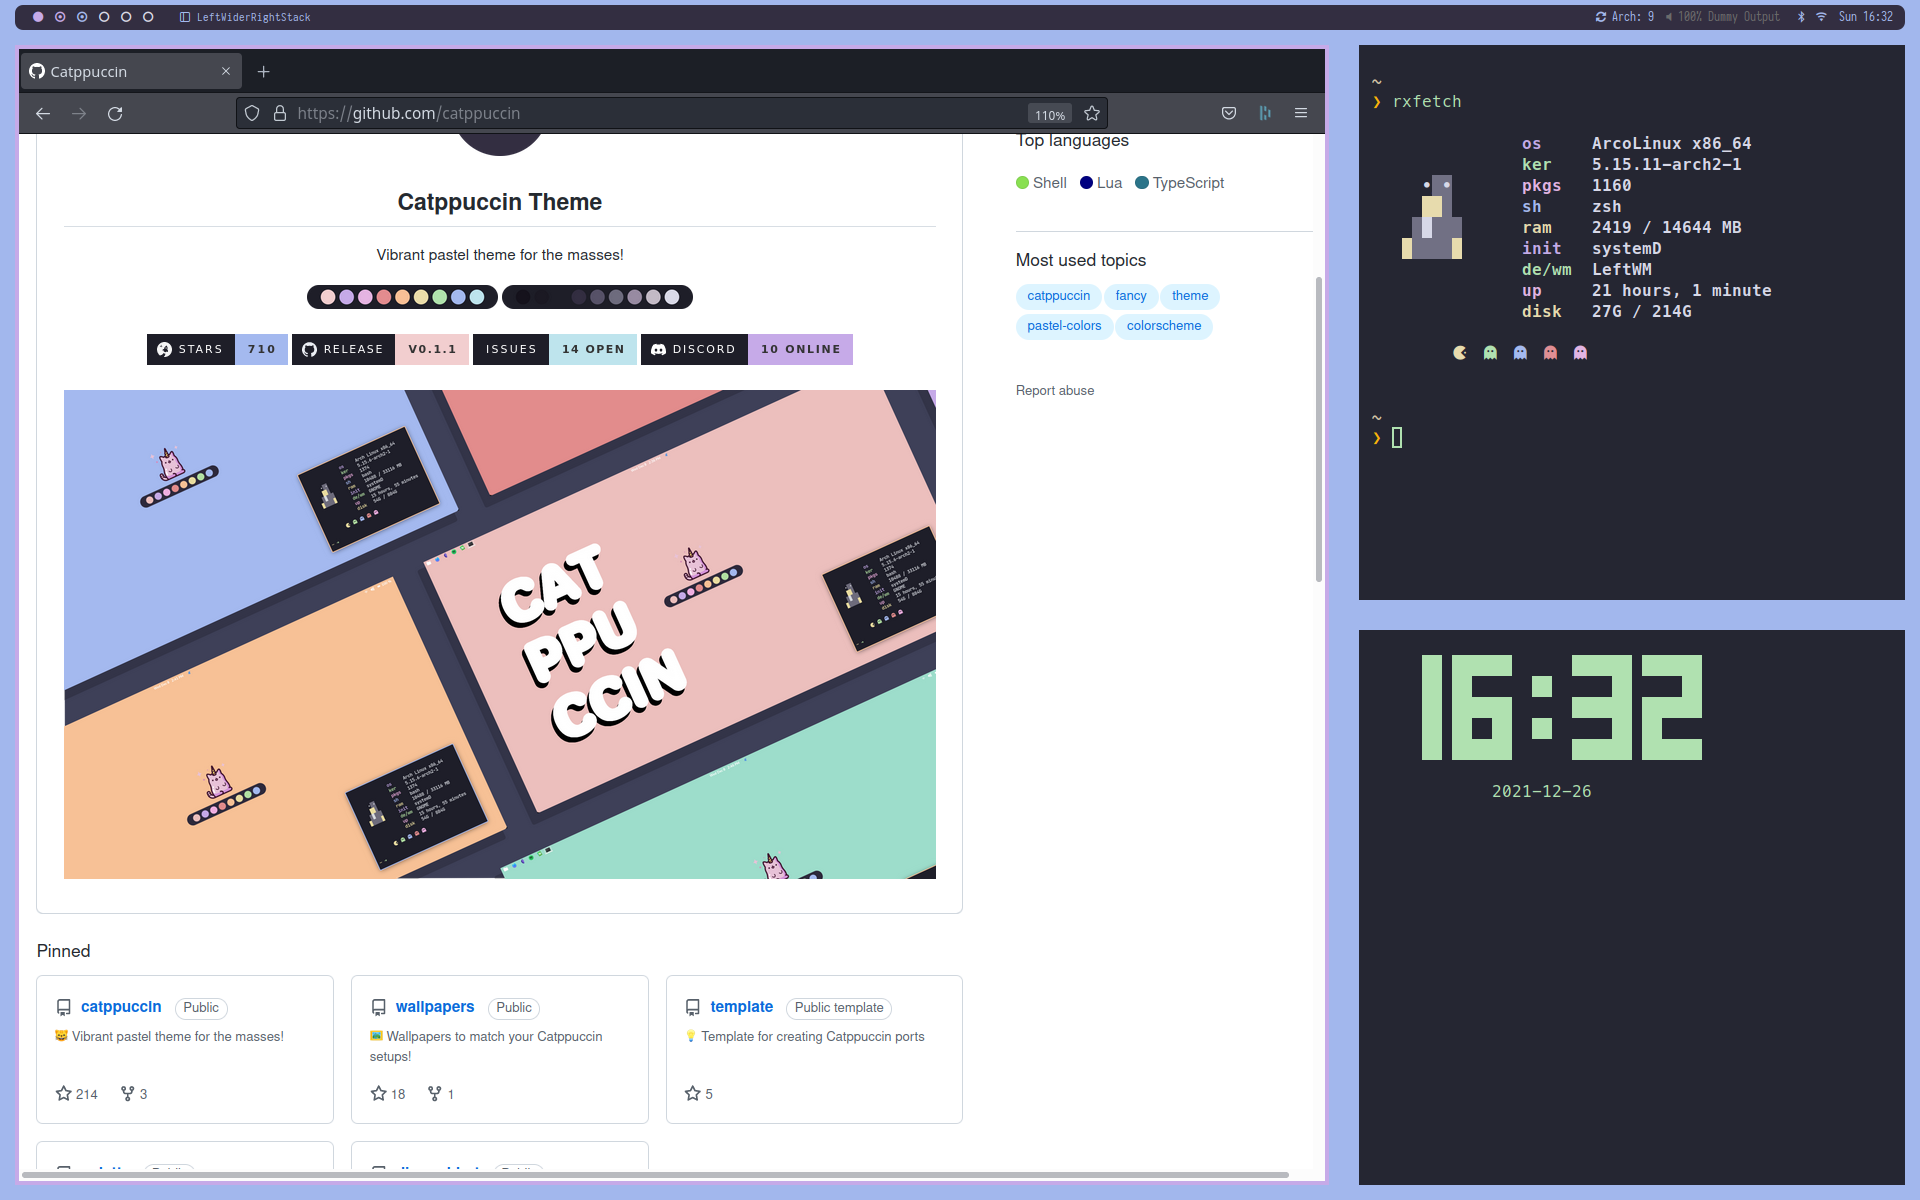
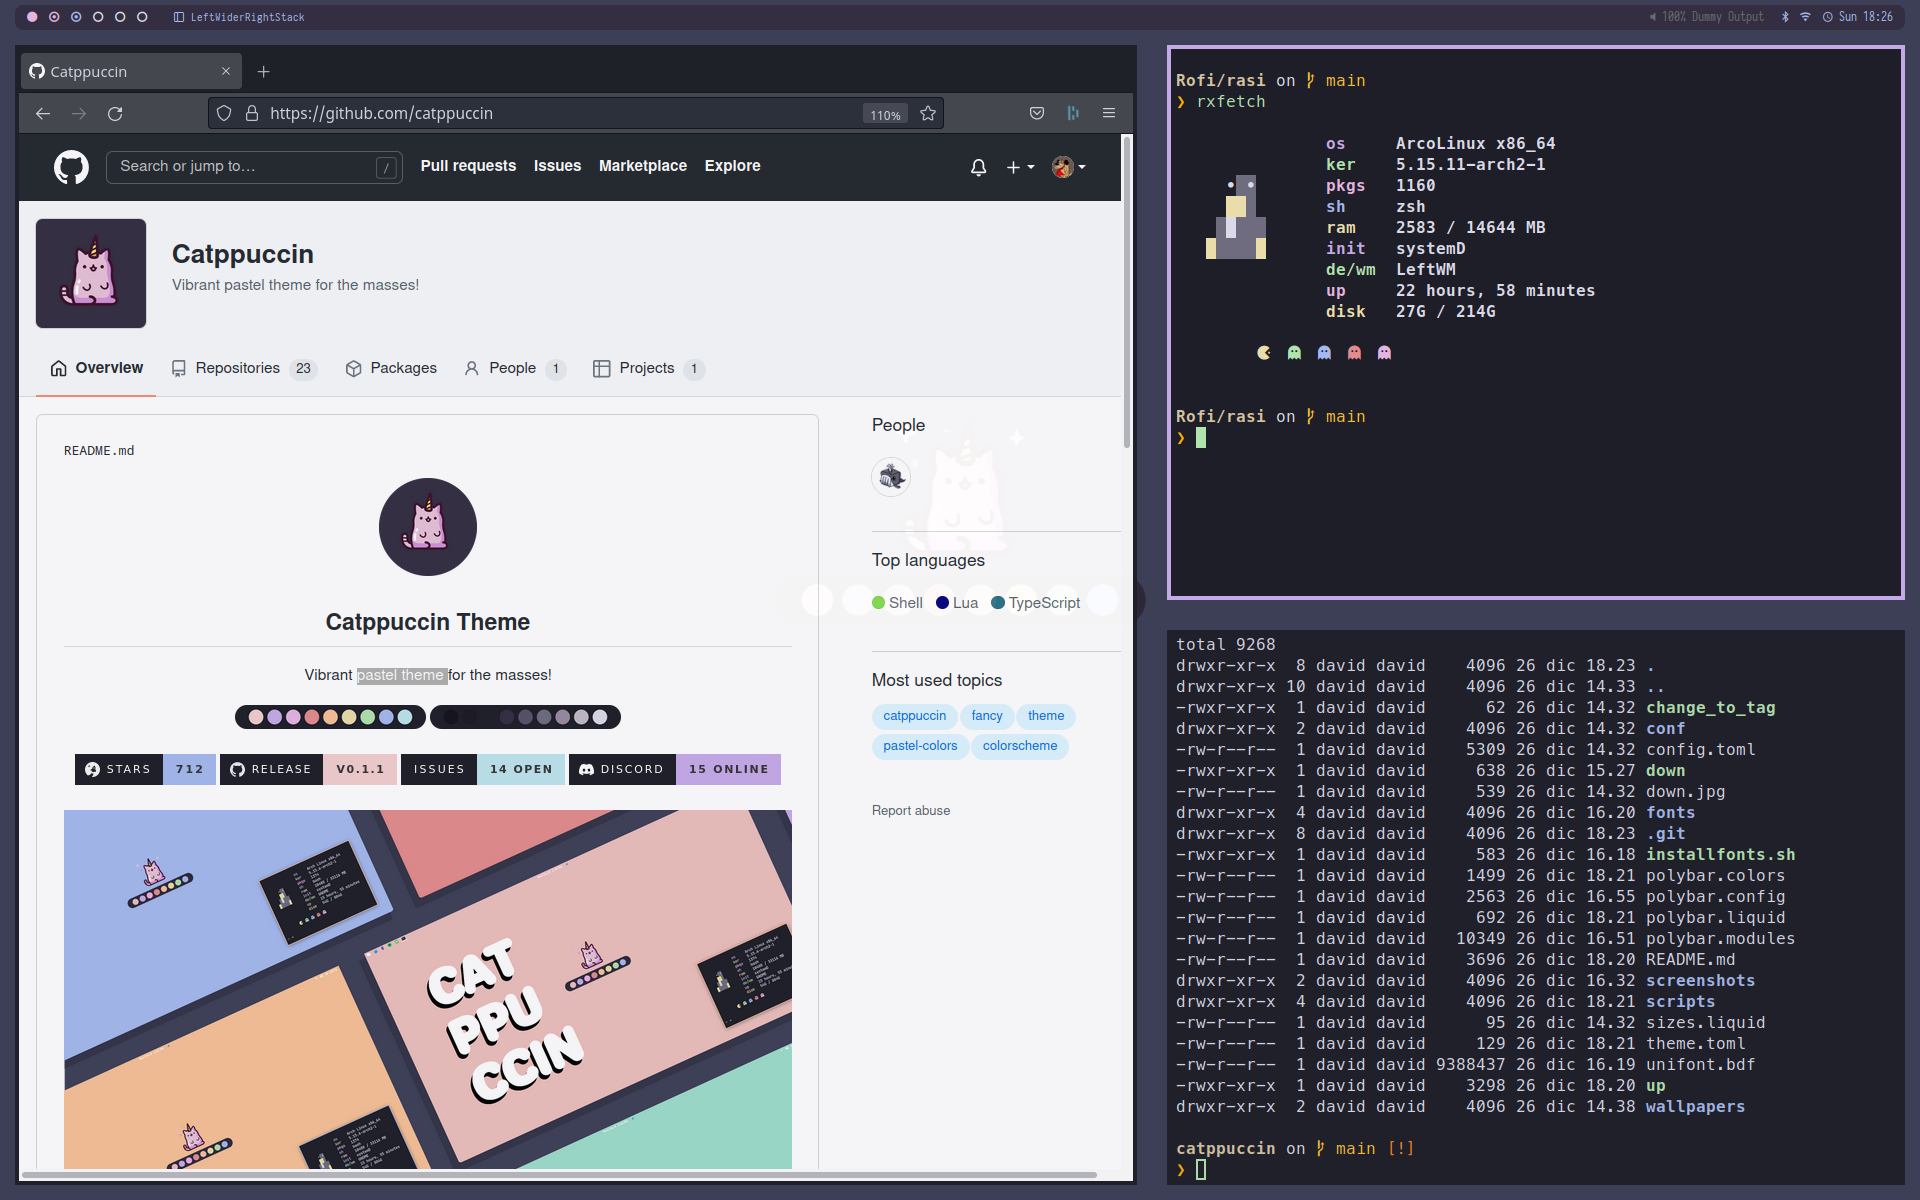
updates

diff --git a/README.md b/README.md
@@ -19,8 +19,8 @@
 
 
 # Screenshots
-TBD
-
+![screenshot1](./screenshots/screenshot1.png)
+![screenshot2](./screenshots/screenshot2.png)
 
 # Dependencies
 
